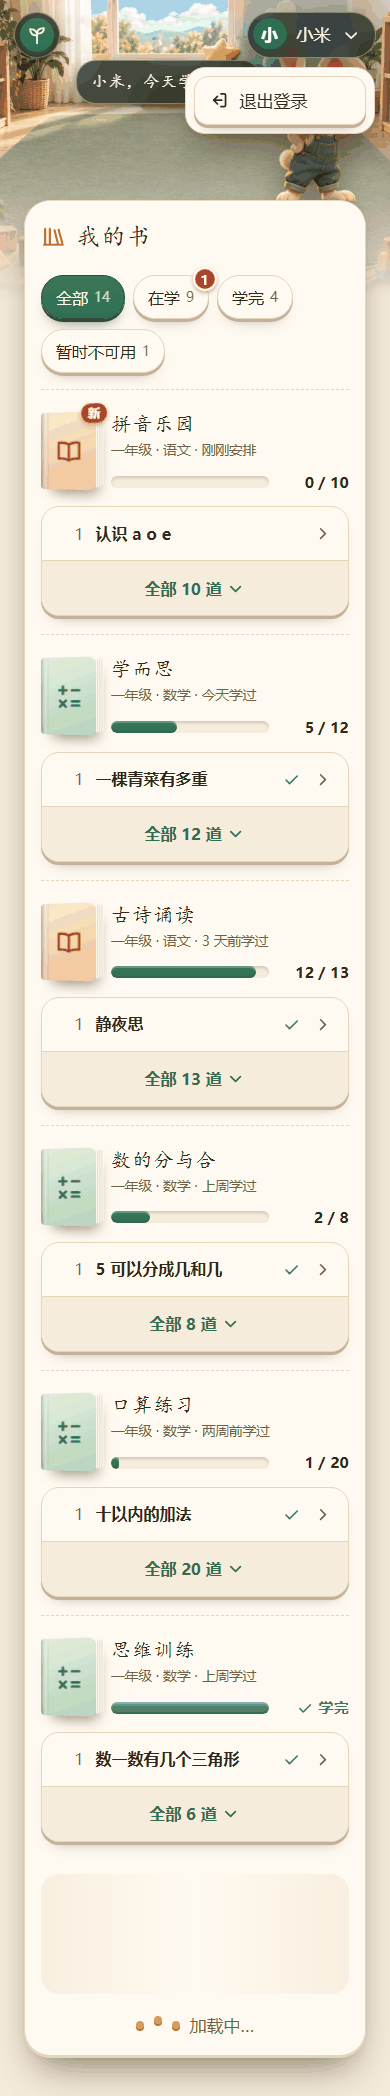
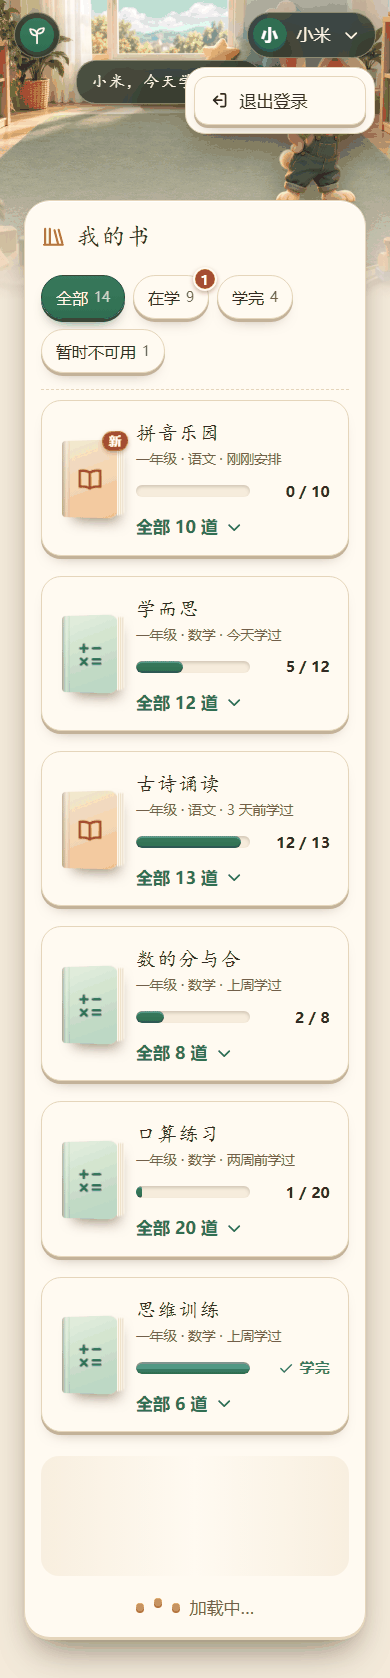
docs(design): make each book one expandable card and clear new books on opening a problem (#221)
Follows the maintainer's fourth round: the title, progress and the expand
control form one card with no problem shown before expanding, a book stops
being new only when one of its problems is opened, and unavailable books
are grey but can still be expanded.

diff --git a/docs/design/book-access.md b/docs/design/book-access.md
@@ -1,6 +1,6 @@
 # 孩子只学安排的书，访客看不到题目
 
-- 状态：需求已由维护者 2026-11-12 确认，写进 [REQ-001、REQ-009、REQ-010](../product/requirements.md) 和 [vision.md](../product/vision.md)。登录页、题目页和预览模式的样稿维护者已看过；孩子首页按第三轮意见重画，等维护者确认。
+- 状态：需求已由维护者 2026-11-12 确认，写进 [REQ-001、REQ-009、REQ-010](../product/requirements.md) 和 [vision.md](../product/vision.md)。登录页、题目页和预览模式的样稿维护者已看过；孩子首页按第四轮意见重画，等维护者确认。
 - 需求：REQ-001、REQ-009、REQ-010（2026-11-12 修改），REQ-002、REQ-011。样稿见 [#221 记录](../evidence/221/README.md)，变更原因见 [变更记录](../changes/2026-11-12-book-access.md)。
 - 涉及：`libs/contracts`（打开一道题的回答、拒绝的回答、预览作答、孩子的书）、`apps/api`（题目和题目下面全部接口的访问检查、预览作答、孩子的书的筛选、排序和新书标记；去掉公开题库）、`apps/web`（登录首页、孩子首页和顶栏、题目页、预览模式、凸起的公共部件、家长书架的空状态）、`e2e`、`visual`。书、书的状态和安排沿用 [家长书架与按书安排练习](bookshelf.md)。
 
@@ -11,7 +11,7 @@
 之后：
 
 - **访客**打开首页看到登录页：孩子登录和家长登录两个页签。打开题目链接只看到「登录后才能打开这道题」，看不到题目的任何内容。
-- **孩子**登录后首页就是自己的空间「我的书」：新安排的书在最上面，「在学」上的红点告诉孩子有几本新书；每本书一条进度条和一个能展开的题目列表。只能打开安排给自己的书里的题，没安排的由服务端拒绝。顶栏只有品牌和自己的头像，头像菜单里退出登录。
+- **孩子**登录后首页就是自己的空间「我的书」：新安排的书在最上面，「在学」上的红点告诉孩子有几本新书；每本书是一块能展开的凸起卡片，书名、进度条和「全部 n 道」在一起，展开才看到书里的题。只能打开安排给自己的书里的题，没安排的由服务端拒绝。顶栏只有品牌和自己的头像，头像菜单里退出登录。
 - 一道题有两种模式：**做题模式**给孩子，作答、进度和草稿照常记录；**预览模式**给家长，课照常走、答案照常判，什么都不记录。
 - 家长取消安排后，这本书从孩子的首页消失；进度不清零，重新安排后接着原来的进度（#179 的规则不变）。
 
@@ -41,7 +41,7 @@
   | 主按钮       | 每页最要紧的一步：登录、「去登录」、「回到我的书」 | 高 48px，主色                 |
   | 次按钮       | 「加载更多」、「再试一次」                         | 高 48px，纸色                 |
   | 筹码         | 筛选、登录页签的滑块                               | 高 44px，选中主色、没选中纸色 |
-  | 列表块       | 书的题目列表、头像菜单里的「退出登录」             | 每行高 48–54px，纸色          |
+  | 卡片和列表块 | 孩子首页的书和书里的题、头像菜单里的「退出登录」   | 每行高 48–54px，纸色          |
 
   课堂里的按钮可以更大，课堂以外的按钮彼此一样；这些做成 `shared/ui` 的公共部件和令牌，[网站视觉语言](visual-language.md) 随之补上这一节。
 
@@ -74,7 +74,7 @@
 
 ### 首页：登录的孩子
 
-**顶栏**：叠在画的上沿，左边是品牌（烟色玻璃胶囊里的图标和「小小探索家」，手机上只有图标），点了回到首页顶部；右边是孩子的头像和昵称（烟色玻璃胶囊，带向下的箭头），点了弹出一张凸起的菜单，只有一项「退出登录」（列表块）。退出后回到首页的登录页，换一个孩子就在那里登录。不放「孩子注册」（已经注册并登录了）、「家长空间」（家长从登录页的家长页签或 `/family` 进去，孩子的屏幕上不需要）和「孩子空间」（首页就是）。
+**顶栏**：叠在画的上沿，左边是品牌（烟色玻璃胶囊里的图标和「小小探索家」，手机上只有图标），点了回到首页顶部；右边是孩子的头像和昵称（烟色玻璃胶囊，带向下的箭头），点了弹出一张凸起的菜单，只有一项「退出登录」。退出后回到首页的登录页，换一个孩子就在那里登录。不放「孩子注册」（已经注册并登录了）、「家长空间」（家长从登录页的家长页签或 `/family` 进去，孩子的屏幕上不需要）和「孩子空间」（首页就是）。
 
 **画**：白天是玩具教室（`toy-classroom-day`），晚上是雨夜的图书角（`library-corner-rainy`），小兔站在右边，旁边一个烟色玻璃气泡「小米，今天学哪本？」（孩子的昵称）。
 
@@ -91,7 +91,7 @@
 | 学完         | 可用、学完的书                 | 本数，小字                                           | 一直               |
 | 暂时不可用   | 安排了但暂时不可用的书         | 本数，小字                                           | 有暂时不可用的书时 |
 
-- 默认「全部」：新书就排在最上面，孩子一打开就看到；「在学」上的红点在孩子换到别的筛选、或者新书被翻到下面时仍然提醒。
+- 默认「全部」（维护者确认）：新书就排在最上面，孩子一打开就看到；「在学」上的红点在孩子换到别的筛选、或者新书被翻到下面时仍然提醒。
 - 红点读屏是「n 本新书」；没有新书时不出现。
 - 选中的筹码写进地址（`/?books=learning|finished|unavailable`），刷新、从题目页返回后还在。
 - 选中的筛选里没有书时（例如还没有学完的书）是一行「这里还没有书」和次按钮「看全部的书」。
@@ -101,37 +101,49 @@
 
 | 组           | 哪些书                           | 组里的顺序                                                         |
 | ------------ | -------------------------------- | ------------------------------------------------------------------ |
-| 1 新安排     | 可用、孩子还没打开过的书         | 新安排的在前                                                       |
+| 1 新安排     | 可用、孩子还没打开过其中的题的书 | 新安排的在前                                                       |
 | 2 在学       | 可用、没学完、打开过的书         | 按最近学习从近到远；打开过但没作答过的排在这一组最后，新安排的在前 |
 | 3 学完       | 可用、学完的书（n = m 且 m > 0） | 按最近学习从近到远                                                 |
 | 4 暂时不可用 | 安排了但暂时不可用的书           | 按最近学习从近到远，没作答过的在最后、新安排的在前                 |
 
 - **最近学习**是孩子在这本书里任何一道题最近一次提交作答的时间（`progress` 表的 `updated_at`，#217 的变化题作答也算）。读取时算，不另存。
-- 新安排的书已经学完（以前做完、取消后又安排）时也排在第 1 组，直到孩子打开它。
+- 新安排的书已经学完（以前做完、取消后又安排）时也排在第 1 组，直到孩子打开其中一道题。
 - 「全部」按上表四组排；其他筛选是上表里的一部分，顺序不变。
 
 #### 新书
 
 - 家长给孩子安排一本书时，这本书对这个孩子是**新书**：封面右上角一枚红色「新」字，计入「在学」上的红点。
-- 孩子**展开这本书的题目列表**（点「全部 n 道」），或者以做题模式**打开这本书里任何一道题**以后，这本书不再是新书：服务器记下打开的时间（见[数据](#数据)），「新」字和红点里的这一本消失，书移到第 2 组。
-- 只是在首页看到这本书、切换筛选，都不算打开：孩子要点进这本书才算。
+- 孩子以做题模式**打开这本书里任何一道题**以后，这本书不再是新书（维护者确认）：服务器在打开这道题时记下（见[数据](#数据)），「新」字和红点里的这一本消失，书移到第 2 组。
+- 只是在首页看到这本书、切换筛选或者展开它的题目列表，都不算：孩子总要先展开、再打开一道题，打开题才算真的开始做这本书。
 - 家长取消后再安排，这本书又是新书。
 - 暂时不可用的书不算新书，不进红点：孩子打不开它。
 
 #### 一本书
 
-- **上面**：左边立体的封面（没有封面时是默认封面）；右边书名，下面一行小字「年级 · 科目 · 什么时候」（「今天学过」「3 天前学过」，新书写「刚刚安排」「昨天安排」，打开过没作答的写「还没做」）；再下面一条**进度条**：凹下的槽里一段凸起的主色，右边写「5 / 12」；学完时整条变成绿色，右边是带勾的「学完」；暂时不可用时整条变灰，右边写「暂时不可用」。
-- **下面是这本书的题目列表**，一个凸起的列表块，所有屏幕上都是一列，题名完整显示、太长就折行：
-  - **收起时**（默认）只有两行：第一行是书里的第 1 道题（序号、题名，做完的后面一个勾，最右一个向右的箭头），点了以做题模式打开这道题；第二行是「全部 n 道」和向下的箭头，点了展开。
-  - **展开时**在页面上原地变长，一行一道，列出书里的全部题，每行高 54px，整行都能点；最后一行是「收起」和向上的箭头。不用下拉框或弹出层：手指在页面上上下滑就能看完，点哪一行就进哪一道题。
-  - 一次只展开一本书：展开另一本时，前一本收起，页面保持刚点的那本书的书名在屏幕里。
-  - 展开的是哪本书写进地址（`&open=<书 id>`），从题目页返回时还展开着、停在原来的位置。
-  - 书里只有一道题时没有「全部 n 道」这一行。
-  - 暂时不可用的书，列表块变平，只列第 1 道题，题名不能点、做完的照样打勾，没有「全部 n 道」。
+每本书是一块凸起的卡片，**收起时整块就是一个按钮**（`aria-expanded`）：
+
+- 左边立体的封面（没有封面时是默认封面）。
+- 右边书名，下面一行小字「年级 · 科目 · 什么时候」（「今天学过」「3 天前学过」，新书写「刚刚安排」「昨天安排」，打开过没作答的写「还没做」）。
+- 再下面一条**进度条**：凹下的槽里一段凸起的主色，右边写「5 / 12」；学完时整条变成绿色，右边是带勾的「学完」。
+- 最下面「全部 n 道」和向下的箭头。点卡片上任何地方都展开，书里的题不会在收起时露出来，哪一道都不比别的更显眼。
+
+**展开时**卡片在页面上原地变长：
+
+- 头部的「全部 n 道」换成「收起」和向上的箭头，头部仍然是收起的按钮。
+- 下面一行一道，列出书里的全部题，所有屏幕上都是一列，题名完整显示、太长就折行；每行是序号、题名，做完的后面一个勾，最右一个向右的箭头，高 54px，整行都能点，点了以做题模式打开这道题。
+- 最后一行再放一个「收起」，长的书翻到底也能收起。
+- 不用下拉框或弹出层：手指在页面上上下滑就能看完，点哪一行就进哪一道题。
+- 一次只展开一本书：展开另一本时，前一本收起，页面保持刚点的那本书的书名在屏幕里。
+- 展开的是哪本书写进地址（`&open=<书 id>`），从题目页返回时还展开着、停在原来的位置。
+
+**暂时不可用的书**：
+
+- 卡片变平（没有凸起的边），封面变灰；书名、小字和右边的「暂时不可用」都是同一种灰色、正常字重；进度条变灰，不是主色也不是绿色。
+- 照样能展开，看到书里有哪些题、做完的打勾。展开后列表最上面一行写「这本书暂时不可用，里面的题先打不开。」，题目行变平、灰色、没有向右的箭头，点了没有反应：理由已经写在列表最上面，不用再弹提示。
 
 #### 加载更多
 
-每批 6 本。
+每批 6 本（维护者确认）。
 
 | 设备                                        | 怎么加载                                                                                                |
 | ------------------------------------------- | ------------------------------------------------------------------------------------------------------- |
@@ -140,7 +152,7 @@
 
 - 都加载完时底部一行「都在这里了」。
 - 加载失败时一行「这一批没加载出来」和次按钮「再试一次」，手机上也一样。
-- 键盘和读屏在手机上也能用「再试一次」；电脑上的「加载更多」能用 Tab 走到。
+- 电脑上的「加载更多」和手机上的「再试一次」都能用 Tab 走到。
 
 #### 没有书
 
@@ -208,7 +220,7 @@
 - 没安排又暂时不可用的书算 `unassigned`：没人安排过的不可用书，孩子本来就看不到。
 - 题目的版本仍按题目清单：清单里有的版本都能打开，书里列的是最新版本。
 - 判断是不依赖数据库的纯函数（`apps/api/src/learning/domain/problem-access.ts`），输入是谁在看、题目清单里的题和书、孩子安排了的书 id；安排由现有的 `readBookAssignments` 读。
-- 孩子以做题模式打开一道题（`practice`）时，同一个事务里把这本书标成打开过（见[新书](#新书)）。
+- 孩子以做题模式打开一道题（`practice`）时，同一个事务里把这本书标成打开过（见[新书](#新书)）；这是新书唯一被消掉的地方，不另设接口。
 
 ### 哪些接口检查什么
 
@@ -219,12 +231,10 @@
 | `POST .../question`、`.../feedback`、`.../transcription`（向小兔提问、讲解、语音转写） | 孩子       | 401      | 403       | 404       | 403          | 403           | 照现在 |
 | `POST .../preview`（预览模式的作答和提示）                                             | 家长       | 401      | 403       | 404       | —            | 403           | 200    |
 | `GET /api/v1/children/assignments`（孩子的书）                                         | 孩子       | 401      | —         | —         | 不列         | 列出，带状态  | 列出   |
-| `PUT /api/v1/children/assignments/:bookId/opened`（展开题目列表时标成打开过）          | 孩子       | 401      | 403       | 404       | 403          | 403           | 204    |
 
 - 「谁能用」以外的会话一律 401：家长调孩子的接口、孩子调预览接口都是 401，页面不会这样调。
-- 检查顺序：先会话和 CSRF（照现在），再判断这道题（或这本书）能不能打开，最后才是各接口自己的逻辑；不能打开时不读写草稿、作答和用量，也不调用 AI。
+- 检查顺序：先会话和 CSRF（照现在），再判断这道题能不能打开，最后才是各接口自己的逻辑；不能打开时不读写草稿、作答和用量，也不调用 AI。
 - 题目下面所有孩子的接口都从同一个「孩子 + 题目」入口进来（`apps/api/src/child-problem-transaction.ts`），检查只写在这一处；#217 合并后它的变化题接口也改从这个入口进来。
-- 「标成打开过」请求体是空的 JSON 对象 `{}`，重复调用什么也不变；书不在书单里是 404。
 - 打开一道题和预览作答的回答都带 `Cache-Control: no-store` 和 `Vary: Cookie`。
 - `GET /api/v1/problems`（公开题库）删除：孩子首页用孩子的书，家长书架有自己的接口，没有别的调用方。
 - 家长的书架、安排、导出和删除接口不变（#179 里已经按家长会话和家庭检查，别的家庭的孩子回答 404）。
@@ -238,7 +248,7 @@
 | 403  | `{ message: '请刷新页面后重试。' }`（照现在）                     | 写请求的 CSRF 不对     |
 | 403  | `{ message: '这本书还没有安排给你。', reason: 'unassigned' }`     | 书没安排给这个孩子     |
 | 403  | `{ message: '这本书暂时不可用。', reason: 'unavailable' }`        | 书暂时不可用           |
-| 404  | `{ message: '这道题或这个版本暂时不可用。' }`（照现在）           | 题目、版本或书不存在   |
+| 404  | `{ message: '这道题或这个版本暂时不可用。' }`（照现在）           | 题目或版本不存在       |
 
 - 契约在 `libs/contracts`：`ProblemOpening`（题目摘要加 `mode`）、`ProblemAccessDenied`（`message` 和 `reason`）。页面按 `mode` 和 `reason` 选画法，不比较文字。`RequestError` 多一个可选的 `reason`，错误处理把它放进回答体。
 - 拒绝时不说明书名，也不说明这本书安排给了谁。
@@ -280,7 +290,7 @@
 ```
 
 - `studiedAt` 是最近学习的时间，没作答过是 `null`；`fresh` 表示还是新书；排列按[书的顺序](#书的顺序)。
-- `items` 是书里现在的全部题，页面收起时只画第 1 道；一本书的题最多几十道，一次给全，展开时不用再请求。
+- `items` 是书里现在的全部题；一本书的题最多几十道，一次给全，展开时不用再请求。
 - 一次查出这个孩子的安排、每本书里每道题的最近作答时间和做完的题，不按书逐本查；筛选、计数和分页在内存里做（一个孩子的书只有几十本）。
 - `books` 不合乎写法是 400。
 
@@ -290,10 +300,10 @@
 
 ```text
 book_assignments
-  opened_at  timestamptz  可以为空；孩子第一次展开这本书的题目列表或以做题模式打开其中一道题的时间，没打开过是空
+  opened_at  timestamptz  可以为空；孩子第一次以做题模式打开这本书里任何一道题的时间，没打开过是空
 ```
 
-- 打开时 `UPDATE ... SET opened_at = now() WHERE child_id = $1 AND book_id = $2 AND opened_at IS NULL`，只写一次，重复打开不变。
+- 打开一道题时 `UPDATE ... SET opened_at = now() WHERE child_id = $1 AND book_id = $2 AND opened_at IS NULL`，只写一次，重复打开不变。
 - 取消安排删除这一行，再安排插入新的一行，`opened_at` 是空，所以又是新书。
 - 不写进家庭导出：它只决定首页上的新书标记，不是学习记录。删除家庭时跟着这一行一起删除；备份的逐表行数不变。
 - 迁移的编号排在 #217、#164 的迁移之后，合并时按顺序重排。
@@ -306,25 +316,24 @@ book_assignments
 
 - `apps/api`：先做一个不改行为的重构，让题目下面的孩子接口（作答、草稿和三个 AI 接口）都从同一个「孩子 + 题目」入口进来，现在它只确认孩子会话；之后访问检查只加在这个入口里。打开一道题由外层的组装文件按会话选孩子或家长的判断，再交给 `catalog` 的路由；`catalog` 不依赖 `learning`。预览作答放在 `learning` 里，和孩子作答共用判定。孩子的书的筛选、计数、新书和排列是 `learning/domain/bookshelf.ts` 里的纯函数。
 - `libs/contracts`：`ProblemOpening`、`ProblemAccessDenied`、预览作答的请求和回答；孩子的书的 `counts`、`studiedAt`、`fresh` 和 `books` 参数；去掉 `CatalogResponse`。
-- `apps/web`：凸起的按钮、筹码、列表块、进度条和立体封面做成 `shared/ui` 的公共部件；首页按会话选登录页或「我的书」，登录页复用 `AccountLayout`、孩子和家长的登录组件；孩子的顶栏替换现在的网站导航，`/child` 转到首页；题目列表的展开用一个按钮（`aria-expanded`）控制下面的列表；加载方式按 `(pointer: coarse)` 选自动加载或按钮；`ProblemPage` 先看会话，再按 `mode` 和 `reason` 选画法；课堂页面收到的不再是可有可无的 `csrf`，而是「做题模式（孩子的 CSRF）」或「预览模式（家长的 CSRF）」两种之一：预览模式用同一个画面和同一套反馈，作答和提示走预览接口，不放话筒、提问和草稿，加上「预览」标记。
+- `apps/web`：凸起的按钮、筹码、卡片、列表块、进度条和立体封面做成 `shared/ui` 的公共部件；首页按会话选登录页或「我的书」，登录页复用 `AccountLayout`、孩子和家长的登录组件；孩子的顶栏替换现在的网站导航，`/child` 转到首页；书的卡片头部是展开按钮（`aria-expanded`、`aria-controls` 指向题目列表）；加载方式按 `(pointer: coarse)` 选自动加载或按钮；`ProblemPage` 先看会话，再按 `mode` 和 `reason` 选画法；课堂页面收到的不再是可有可无的 `csrf`，而是「做题模式（孩子的 CSRF）」或「预览模式（家长的 CSRF）」两种之一：预览模式用同一个画面和同一套反馈，作答和提示走预览接口，不放话筒、提问和草稿，加上「预览」标记。
 - 题目页的 `LessonRoute` 和 #210 的课堂记录都改这一带，合并时按顺序处理。
 
 ## 测试
 
 - 判断能不能打开：上面顺序表的每一格一条单元测试，加上「没安排又暂时不可用」算 `unassigned`、孩子和家长都登录着时按孩子。
-- 孩子的书：四组的顺序和组里的顺序、学完的书重新安排后排在新书组、每个筛选的成员和计数、新书的本数；展开题目列表或打开一道题后不再是新书、取消再安排又是新书、暂时不可用的书不算新书。各一条单元测试。
-- 接口，不连数据库的路由测试：没有会话时 401；回答带 `no-store` 和 `Vary: Cookie`；403 的回答体合乎 `ProblemAccessDenied`；预览接口、孩子的书和「标成打开过」的参数校验、来源检查。
+- 孩子的书：四组的顺序和组里的顺序、学完的书重新安排后排在新书组、每个筛选的成员和计数、新书的本数；打开一道题后不再是新书、只展开不算、取消再安排又是新书、暂时不可用的书不算新书。各一条单元测试。
+- 接口，不连数据库的路由测试：没有会话时 401；回答带 `no-store` 和 `Vary: Cookie`；403 的回答体合乎 `ProblemAccessDenied`；预览接口和孩子的书的参数校验、来源检查。
 - 接口，真实数据库（CI 的 `test:db`）：
   - 打开一道题：安排了 200 `practice`，并记下 `opened_at`，第二次打开不变；同一家庭另一个孩子安排的书 403 `unassigned`；别的家庭的孩子安排的书 403 `unassigned`；暂时不可用 403 `unavailable`（测试注册表）；不存在 404；家长 200 `preview`、不写 `opened_at`、暂时不可用 403；没验证邮箱的家长 401。
-  - 「标成打开过」：安排了 204 并记下时间；没安排、暂时不可用 403；书单里没有 404；家长会话 401。
   - 作答、草稿、变化题和三个 AI 接口：`unassigned`、`unavailable` 时 403，不写作答、草稿和用量，不调用 AI（测试替身记录调用次数）；家长会话 401。
   - 预览作答：判对、判错、提示；调用前后所有学习表的行数不变；孩子会话 401。
   - 取消安排后 403，重新安排后 200，进度不变，又是新书。
   - 孩子的书：`counts`、`studiedAt`、`fresh`、每个筛选、顺序和分页。
   - 迁移：从上一个迁移带数据升级后，已有的安排 `opened_at` 为空。
-- 网页：凸起部件的每种状态（平常、按下、选中、不能按）；登录页两个页签（孩子、家长、家长已登录、「忘了 PIN」展开）；孩子顶栏的头像菜单；孩子首页（每个筛选、红点、「新」字、进度条的三种样子、题目列表收起和展开、一次只展开一本、暂时不可用、没有安排、筛选里没有书、加载中、加载失败、都加载完）的 story 和测试；题目页每种情况的测试，包括课堂中途收到 403；`next` 的校验（站内题目地址、别的地址、坏的写法、`/child?next=` 转过来）；预览模式不放话筒、提问和草稿，作答走预览接口，反馈和做题模式一样，「预览」标记一直在。
-- e2e（服务器的回答由测试代答，不需要数据库）：访客打开首页只看到登录页，不请求题目接口；访客打开题目链接看到登录提示，不下载这道题的课堂代码和绘景；从题目页登录后回到这道题；孩子展开新书的题目列表后红点消失；手机上滑到底自动加载下一批，电脑上点「加载更多」；家长预览从片名卡走到作答，不请求草稿和作答接口。现在按访客身份打开题目的用例改成用登录并安排了这本书的孩子（`e2e/assigned-child.ts` 代答孩子会话、孩子的书和打开一道题），#126 等后来的题目用例也用它。
-- 视觉基准：登录页两个页签（白天、晚上、手机）；孩子首页（白天、晚上、手机、展开一本书、电脑加载中、手机加载中、暂时不可用、头像菜单、没有安排）；题目页的三种提示；预览模式的片名卡和作答。现在的「探索」和「孩子空间」两组基准换成这些。
+- 网页：凸起部件的每种状态（平常、按下、选中、不能按）；登录页两个页签（孩子、家长、家长已登录、「忘了 PIN」展开）；孩子顶栏的头像菜单；孩子首页（每个筛选、红点、「新」字、进度条的三种样子、书的卡片收起和展开、一次只展开一本、暂时不可用的书收起和展开、没有安排、筛选里没有书、加载中、加载失败、都加载完）的 story 和测试；题目页每种情况的测试，包括课堂中途收到 403；`next` 的校验（站内题目地址、别的地址、坏的写法、`/child?next=` 转过来）；预览模式不放话筒、提问和草稿，作答走预览接口，反馈和做题模式一样，「预览」标记一直在。
+- e2e（服务器的回答由测试代答，不需要数据库）：访客打开首页只看到登录页，不请求题目接口；访客打开题目链接看到登录提示，不下载这道题的课堂代码和绘景；从题目页登录后回到这道题；孩子展开新书、打开一道题，返回后红点消失，只展开不消；手机上滑到底自动加载下一批，电脑上点「加载更多」；家长预览从片名卡走到作答，不请求草稿和作答接口。现在按访客身份打开题目的用例改成用登录并安排了这本书的孩子（`e2e/assigned-child.ts` 代答孩子会话、孩子的书和打开一道题），#126 等后来的题目用例也用它。
+- 视觉基准：登录页两个页签（白天、晚上、手机）；孩子首页（白天、晚上、手机、展开一本书、电脑加载中、手机加载中、暂时不可用的书收起和展开、头像菜单、没有安排）；题目页的三种提示；预览模式的片名卡和作答。现在的「探索」和「孩子空间」两组基准换成这些。
 
 ## 后续工作
 
@@ -340,9 +349,11 @@ book_assignments
 - **孩子首页保留年级、学科、分类三个选择**：选择框表达不了新书在前、最近学过的在前；按书排成一列和 #179 的「我的练习」一致。
 - **孩子的顶栏保留孩子空间、孩子注册和家长空间**：首页就是孩子的空间，孩子已经注册，家长空间不是孩子要去的地方；只留头像菜单里的退出。
 - **单独一个「新安排」筛选**：维护者不要；新书就是在学的书，排在最上面，红点放在「在学」上。
-- **在首页看到新书就算不新了**：孩子扫一眼就消掉了提醒；要点进这本书才算。
-- **把书里的题全部摆在页面上**：几本书就把页面拉得很长，题名还被挤成几个字；收起时只露第 1 道，要看再展开。
+- **展开题目列表就算不新了**：孩子展开看一眼就消掉了提醒；要打开一道题才算开始做这本书（维护者确认），也就不需要单独的「标成打开过」接口。
+- **收起时露出第 1 道题**：第 1 道题因此比别的题更显眼；收起时只有书名、进度和「全部 n 道」。
+- **把书里的题全部摆在页面上**：几本书就把页面拉得很长，题名还被挤成几个字。
 - **用下拉框或弹出层列题目**：手机上下拉框的选项小、不好滑，弹出层盖住书架；在页面上原地展开，一行一道，手指滑和点都顺手。
+- **暂时不可用的书点题时弹提示**：理由已经写在展开的列表最上面，再弹一次是重复的打扰。
 - **手机上也用「加载更多」按钮**：手机上滑到底自然就该接着出现；电脑上滚轮停下来常常是还在看，按钮让孩子自己决定。
 - **预览不判答案、只看短片**：家长看不到孩子在作答那一步会遇到什么；判定在服务器上、不记录，代价是一个只读的接口。
 - **预览里也能语音作答和提问**：要调用付费的 AI，家庭授权管的是孩子的输入；预览用点选就够看清这一步。

diff --git a/docs/changes/2026-11-12-book-access.md b/docs/changes/2026-11-12-book-access.md
@@ -1,9 +1,9 @@
 # 孩子只学安排的书，访客看不到题目
 
 - 日期：2026-11-12
-- 状态：需求已由维护者确认并写进需求文档；登录页、题目页和预览模式的样稿维护者已看过，孩子首页按第三轮意见重画，等维护者确认。
+- 状态：需求已由维护者确认并写进需求文档；登录页、题目页和预览模式的样稿维护者已看过，孩子首页按第四轮意见重画，等维护者确认。
 - 级别：L2 需求变更（REQ-001 浏览题库的对象，REQ-009 去掉自由复习、加上做题模式和预览模式、孩子首页的顺序和新书，REQ-010 返回的去处）；设计冲击 D1（题目下面的孩子接口先收拢到同一个「孩子 + 题目」入口，再加访问检查；课堂页面收到的会话从可有可无的 CSRF 改成做题模式或预览模式之一）
-- 来源：[#221](https://github.com/juanchaopan/education/issues/221)。维护者 2026-11-12：「什么叫自由复习？应该没有这个东西的，只有家长给你安排过这本书，你才能够去学」；访客「什么都看不到」。看过三轮样稿后的决定见下面。
+- 来源：[#221](https://github.com/juanchaopan/education/issues/221)。维护者 2026-11-12：「什么叫自由复习？应该没有这个东西的，只有家长给你安排过这本书，你才能够去学」；访客「什么都看不到」。看过四轮样稿后的决定见下面。
 
 ## 变了什么
 
@@ -12,7 +12,7 @@
 之后：
 
 - 首页对访客是登录页：孩子登录（默认）和家长登录两个页签。
-- 孩子登录后首页就是自己的空间「我的书」：顶栏只有品牌和头像菜单（退出登录）；新书排在最上面，「在学」筛选上的红点是新书的本数，孩子展开新书的题目列表或打开其中一道题后不再算新书；每本书一条进度条和一个能原地展开的题目列表，收起时只露第 1 道题；手机上滑到底自动加载，电脑上点「加载更多」。`/child` 转到首页。
+- 孩子登录后首页就是自己的空间「我的书」：顶栏只有品牌和头像菜单（退出登录）；新书排在最上面，「在学」筛选上的红点是新书的本数，孩子打开新书里的一道题后不再算新书；每本书是一块能展开的凸起卡片，封面、书名、进度条和「全部 n 道」在一起，展开后一行一道列出书里的题；暂时不可用的书置灰，能展开看题但打不开；手机上滑到底自动加载，电脑上点「加载更多」。`/child` 转到首页。
 - 一道题有做题模式和预览模式。孩子只能以做题模式打开安排给自己的书里的题；打开一道题、作答、草稿、变化题和 AI 接口都由服务端检查安排，没安排回答 403 `unassigned`，暂时不可用回答 403 `unavailable`。家长以预览模式打开：课照常走、答案照常判、反馈和做题模式一样，什么都不记录，不调用 AI，画面上标着「预览」。公开题库接口删除。
 - 孩子从题目链接登录后回到这道题。
 - 本次画的页面都有和课堂画面一样的立体感，课堂以外的按钮和部件是同一种凸起。
@@ -21,40 +21,40 @@
 
 | 类别 | 内容                                                                                                                                                                                                                                                                                                                                                    |
 | ---- | ------------------------------------------------------------------------------------------------------------------------------------------------------------------------------------------------------------------------------------------------------------------------------------------------------------------------------------------------------- |
-| 需求 | REQ-001、REQ-009、REQ-010 和 vision.md 已按维护者确认的文字修改，写明 2026-11-12；REQ-009 的首页顺序和新书按第三轮意见写                                                                                                                                                                                                                                |
+| 需求 | REQ-001、REQ-009、REQ-010 和 vision.md 已按维护者确认的文字修改，写明 2026-11-12；REQ-009 的首页顺序和新书按第四轮意见写                                                                                                                                                                                                                                |
 | 架构 | 分层不变，不需要新的 ADR；课堂静态文件不受登录保护，记在设计的[不受保护的部分](../design/book-access.md#不受保护的部分)，挡住它们是后续 issue                                                                                                                                                                                                           |
 | 设计 | 新增 [孩子只学安排的书，访客看不到题目](../design/book-access.md)；[课堂公共部件与绘景库](../design/lesson-kit.md) 去掉「未登录」观看和它的提示条、加上预览模式；[网站视觉语言](../design/visual-language.md) 加上立体感和统一的按钮、改掉首页和「未登录观看」；[家长书架](../design/bookshelf.md) 里孩子练习的排列和由 #221 实现的几处改成链接到新设计 |
-| 代码 | `libs/contracts`；`apps/api` 的打开一道题、作答、草稿、变化题、三个 AI 接口、预览作答、孩子的书和「标成打开过」，去掉公开题库；`apps/web` 的凸起公共部件、首页、孩子顶栏、题目页、课堂页面的会话、家长书架的空状态，`/child` 转到首页；`e2e`、`visual`                                                                                                  |
+| 代码 | `libs/contracts`；`apps/api` 的打开一道题（记下新书被打开）、作答、草稿、变化题、三个 AI 接口、预览作答、孩子的书，去掉公开题库；`apps/web` 的凸起公共部件、首页、孩子顶栏、题目页、课堂页面的会话、家长书架的空状态，`/child` 转到首页；`e2e`、`visual`                                                                                                |
 | 数据 | `book_assignments` 加一列 `opened_at`（可以为空），迁移只加不删；读现有的 `progress` 算最近学习                                                                                                                                                                                                                                                         |
 
 ## 决定
 
 - 首页是登录页，照家长账号页面的版式，孩子登录和家长登录两个页签，默认孩子登录；孩子登录仍用家庭码、昵称和六位 PIN，KEY 只用于注册。孩子注册、家长注册、找回密码的页面照现在的样子用。
-- 孩子的顶栏从孩子真正需要的出发，只留品牌和头像菜单；首页就是孩子的空间。
-- 孩子首页：新书（还没打开过）排在最前面、新安排的在前；其余没学完的按最近学过（最近一次提交作答）排；然后是学完的；暂时不可用的置灰放在最后。筛选是全部、在学、学完和暂时不可用（只在有这样的书时出现），没有单独的「新安排」筛选，新书的本数用红色实心圆标在「在学」上。
-- 孩子点进新书以后才不算新书。
+- 孩子的顶栏只留品牌和头像菜单；首页就是孩子的空间。
+- 孩子首页：新书（还没打开过其中的题）排在最前面、新安排的在前；其余没学完的按最近学过（最近一次提交作答）排；然后是学完的；暂时不可用的置灰放在最后。筛选是全部（默认）、在学、学完和暂时不可用（只在有这样的书时出现），没有单独的「新安排」筛选，新书的本数用红色实心圆标在「在学」上。
+- 孩子打开新书里的任意一道题后才不算新书，只展开题目列表不算；新书在服务器打开题目时消掉，不另设接口。
 - 进度保留「5 / 12」的数字，用进度条表示。
-- 书里的题不全部摆在页面上：每本书一个凸起的、能展开的列表，默认只露第 1 道题，所有屏幕一列、题名完整；为手指设计，不用下拉框。
-- 「我的书」手机上滑到底自动加载，电脑上用凸起的「加载更多」按钮，有「加载中…」。
+- 每本书一块凸起的卡片，书名和「全部 n 道」是同一个展开按钮，收起时不露任何一道题；展开后所有屏幕一列、题名完整；为手指设计，不用下拉框。
+- 暂时不可用的书：「暂时不可用」和书名同一种灰色、正常字重，进度条变灰；能展开看题，题目打不开。
+- 「我的书」每批 6 本，手机上滑到底自动加载，电脑上用凸起的「加载更多」按钮，有「加载中…」。
 - 全站按钮和部件同一种有质感的立体样式，课堂里的可以更大，课堂以外的彼此一样；家长空间的改版另开 issue。
 - 家长可以预览家长书架上所有可用的书：走完整节课、点选作答、按同样的规则判对错，什么都不保存，不用话筒、不向小兔提问、没有 AI 花费。标记只写「预览」，作答的反馈和做题模式一样。需求里写明做题模式和预览模式。
 - 家长页面里的预览入口以后做（会和 #164 冲突），这次只能从题目链接进预览；预览是单独的第 5 个 PR。
 - 题目链接登录后回到这道题，`next` 只接受站内题目地址。
 - 题目页的提示分开：没登录只有登录提示；孩子没安排是「请家长安排这本书」；书撤下是「这本书暂时不可用」；家长是预览模式。
 - 课堂静态文件这次不挡，挡住它们作为后续 issue。
-- 还待维护者确认：孩子首页的样稿、默认筛选、「点进去」包不包括展开题目列表、每批几本。
 
 ## 拆出的工作
 
 都挂在 #221 下，本地叠着做，按顺序开 PR：
 
-| PR  | 内容                                                                                                                                                                                                                                                                                                             |
-| --- | ---------------------------------------------------------------------------------------------------------------------------------------------------------------------------------------------------------------------------------------------------------------------------------------------------------------- |
-| 1   | 文档：本设计、课堂公共部件、视觉语言、家长书架的链接、变更记录、样稿、文档索引（需求和 vision 已在这个分支上）                                                                                                                                                                                                   |
-| 2   | 重构，不改行为：题目下面的孩子接口都从同一个「孩子 + 题目」入口进来；课堂页面收到的会话换成孩子或访客两种之一                                                                                                                                                                                                    |
-| 3   | 孩子首页和登录：凸起的公共部件、登录首页、孩子顶栏和「我的书」（筛选、新书、进度条、能展开的题目列表、加载更多）、`/child` 转到首页、题目页的提示、登录后回到题目、家长书架的空状态；孩子的书的接口加筛选、计数、`studiedAt`、`fresh`、「标成打开过」和 `opened_at` 的迁移；e2e 用登录并安排了书的孩子；视觉基准 |
-| 4   | 接口的访问检查：打开一道题按会话判断并记下打开、孩子接口拒绝没安排和暂时不可用的书、删除公开题库；集成测试                                                                                                                                                                                                       |
-| 5   | 预览模式：打开一道题对家长回答 `preview`、预览作答接口、课堂的预览模式和标记；测试、e2e 和视觉基准                                                                                                                                                                                                               |
+| PR  | 内容                                                                                                                                                                                                                                                                                        |
+| --- | ------------------------------------------------------------------------------------------------------------------------------------------------------------------------------------------------------------------------------------------------------------------------------------------- |
+| 1   | 文档：本设计、课堂公共部件、视觉语言、家长书架的链接、变更记录、样稿、文档索引（需求和 vision 已在这个分支上）                                                                                                                                                                              |
+| 2   | 重构，不改行为：题目下面的孩子接口都从同一个「孩子 + 题目」入口进来；课堂页面收到的会话换成孩子或访客两种之一                                                                                                                                                                               |
+| 3   | 孩子首页和登录：凸起的公共部件、登录首页、孩子顶栏和「我的书」（筛选、新书、进度条、能展开的书、加载更多）、`/child` 转到首页、题目页的提示、登录后回到题目、家长书架的空状态；孩子的书的接口加筛选、计数、`studiedAt`、`fresh` 和 `opened_at` 的迁移；e2e 用登录并安排了书的孩子；视觉基准 |
+| 4   | 接口的访问检查：打开一道题按会话判断并记下新书被打开、孩子接口拒绝没安排和暂时不可用的书、删除公开题库；集成测试                                                                                                                                                                            |
+| 5   | 预览模式：打开一道题对家长回答 `preview`、预览作答接口、课堂的预览模式和标记；测试、e2e 和视觉基准                                                                                                                                                                                          |
 
 后续 issue：课堂代码、旁白录音和绘景放到会话和安排的检查后面；家长空间按同样的立体感和统一的按钮改版；家长总览和学习记录里的题名改成预览链接。
 

diff --git a/docs/evidence/221/README.md b/docs/evidence/221/README.md
@@ -1,6 +1,6 @@
 # #221 孩子只学安排的书，访客看不到题目：样稿
 
-[#221](https://github.com/juanchaopan/education/issues/221) 的样稿。设计见 [孩子只学安排的书，访客看不到题目](../../design/book-access.md)。登录页、题目页和预览模式维护者已看过；孩子首页按第三轮意见重画，待维护者确认。
+[#221](https://github.com/juanchaopan/education/issues/221) 的样稿。设计见 [孩子只学安排的书，访客看不到题目](../../design/book-access.md)。登录页、题目页和预览模式维护者已看过；孩子首页按第四轮意见重画，待维护者确认。
 
 ## 怎么做的
 
@@ -26,18 +26,19 @@
 
 ### 首页：登录的孩子
 
-样稿里小米有 14 本书，第一批 6 本按顺序是：「拼音乐园」刚刚安排、还没打开（新书）；「学而思」5/12、今天学过；「古诗诵读」12/13、3 天前学过；「数的分与合」2/8、上周学过；「口算练习」1/20、两周前学过；「思维训练」学完。另有一本暂时不可用的「儿歌和童谣」。
+样稿里小米有 14 本书，第一批 6 本按顺序是：「拼音乐园」刚刚安排、还没打开过其中的题（新书）；「学而思」5/12、今天学过；「古诗诵读」12/13、3 天前学过；「数的分与合」2/8、上周学过；「口算练习」1/20、两周前学过；「思维训练」学完。另有一本暂时不可用的「儿歌和童谣」。
 
-| 截图                                                                 | 画的是什么                                                                                                                                                                                                                                                                                        |
-| -------------------------------------------------------------------- | ------------------------------------------------------------------------------------------------------------------------------------------------------------------------------------------------------------------------------------------------------------------------------------------------- |
-| [child-home-desktop.png](child-home-desktop.png)                     | 桌面白天：顶栏只有品牌和小米的头像；玩具教室的画里小兔说「小米，今天学哪本？」；筛选「全部 14」选中、「在学 9」右上角红点 1、「学完 4」、「暂时不可用 1」；新书「拼音乐园」在最上面，封面上一枚红色「新」字；每本书一条进度条和收起的题目列表（第 1 道题和「全部 n 道」）；底部凸起的「加载更多」 |
-| [child-home-night-desktop.png](child-home-night-desktop.png)         | 同上，晚上主题，画换成雨夜的图书角                                                                                                                                                                                                                                                                |
-| [child-home-loading-desktop.png](child-home-loading-desktop.png)     | 桌面，点了「加载更多」：按钮沉下去、变平，三颗圆点和「加载中…」                                                                                                                                                                                                                                   |
-| [child-home-phone.png](child-home-phone.png)                         | 手机：筛选折成两行；题目列表一列，题名完整；滑到底时自动加载，底部一张骨架书卡和「加载中…」                                                                                                                                                                                                       |
-| [child-home-open-phone.png](child-home-open-phone.png)               | 手机，展开「学而思」的题目列表：12 道题一行一道，做完的打勾，最后一行「收起」                                                                                                                                                                                                                     |
-| [child-home-unavailable-phone.png](child-home-unavailable-phone.png) | 手机，选中「暂时不可用」：「儿歌和童谣」封面变灰、进度条变灰、列表变平，只列第 1 道题、不能点；底部「都在这里了」                                                                                                                                                                                 |
-| [child-home-menu-phone.png](child-home-menu-phone.png)               | 手机，点了右上角小米的头像：凸起的菜单里只有「退出登录」                                                                                                                                                                                                                                          |
-| [child-home-empty-desktop.png](child-home-empty-desktop.png)         | 桌面，还没有安排的书：没有筛选，空状态「家长还没有给你安排书」                                                                                                                                                                                                                                    |
+| 截图                                                                           | 画的是什么                                                                                                                                                                                                                                         |
+| ------------------------------------------------------------------------------ | -------------------------------------------------------------------------------------------------------------------------------------------------------------------------------------------------------------------------------------------------- |
+| [child-home-desktop.png](child-home-desktop.png)                               | 桌面白天：顶栏只有品牌和小米的头像；筛选「全部 14」选中、「在学 9」右上角红点 1、「学完 4」、「暂时不可用 1」；新书「拼音乐园」在最上面，封面上一枚红色「新」字；每本书是一块凸起的卡片：封面、书名、进度条和「全部 n 道」；底部凸起的「加载更多」 |
+| [child-home-night-desktop.png](child-home-night-desktop.png)                   | 同上，晚上主题，画换成雨夜的图书角                                                                                                                                                                                                                 |
+| [child-home-loading-desktop.png](child-home-loading-desktop.png)               | 桌面，点了「加载更多」：按钮沉下去、变平，三颗圆点和「加载中…」                                                                                                                                                                                    |
+| [child-home-phone.png](child-home-phone.png)                                   | 手机：筛选折成两行；书的卡片一列；滑到底时自动加载，底部一张骨架书卡和「加载中…」                                                                                                                                                                  |
+| [child-home-open-phone.png](child-home-open-phone.png)                         | 手机，展开「学而思」：卡片头部换成「收起」，下面 12 道题一行一道、题名完整，做完的打勾，最后一行「收起」                                                                                                                                           |
+| [child-home-unavailable-phone.png](child-home-unavailable-phone.png)           | 手机，选中「暂时不可用」：「儿歌和童谣」卡片变平、封面变灰，书名、小字和「暂时不可用」同一种灰色、正常字重，进度条变灰                                                                                                                             |
+| [child-home-unavailable-open-phone.png](child-home-unavailable-open-phone.png) | 手机，展开「儿歌和童谣」：最上面一行「这本书暂时不可用，里面的题先打不开。」，题目行变平、灰色、没有箭头，做完的照样打勾                                                                                                                           |
+| [child-home-menu-phone.png](child-home-menu-phone.png)                         | 手机，点了右上角小米的头像：凸起的菜单里只有「退出登录」                                                                                                                                                                                           |
+| [child-home-empty-desktop.png](child-home-empty-desktop.png)                   | 桌面，还没有安排的书：没有筛选，空状态「家长还没有给你安排书」                                                                                                                                                                                     |
 
 ### 题目页
 

diff --git a/docs/product/requirements.md b/docs/product/requirements.md
@@ -84,7 +84,7 @@
 - 优先级：MVP；状态：有效，未实现。
 - 来源：用户第四轮确认；2026-11-12 维护者在 [#221](https://github.com/juanchaopan/education/issues/221) 修改。
 - 用户故事：作为儿童，我希望反复做家长安排给我的书里的题，并恢复中断的作答；作为家长，我希望安排练习、在安排前后预览题目，导出或删除家庭学习数据。
-- 验收标准：Given 家长给孩子安排了书，When 孩子选择书里的任意一道题（包括做过的），Then 以做题模式打开，可以重做，不受强制顺序锁定。Given 孩子的首页，Then 新安排、孩子还没打开过的书排在最前面，新安排的在前；其余没学完的书按最近学过（最近一次提交作答）从近到远，打开过但没作答过的排在这一组最后；然后是学完的书；暂时不可用的书置灰放在最后。Given 有孩子还没打开过的新书，Then 首页标出新书的本数，孩子展开这本书的题目或打开其中一道题后，这本书不再算新书。Given 没有安排给这个孩子的书，When 孩子从页面、链接或直接请求接口打开其中的题，Then 服务端拒绝，页面提示请家长安排这本书；同一家庭其他孩子和其他家庭安排的书同样打不开。Given 安排给孩子的书暂时不可用，Then 孩子看到置灰的书和「暂时不可用」，书里的题打不开。Given 没有登录（访客），When 打开首页或任何题目链接，Then 看不到题目内容，只有登录入口；孩子从题目链接登录后回到这道题。Given 登录的家长打开一道可用的书里的题，Then 以预览模式打开：可以看完整节课并点选作答，按做题模式同样的规则判对错，不保存作答、进度和草稿，不用话筒、不向小兔提问，不调用 AI。Given 家长安排练习，Then 仅这个孩子可见，不影响同一家庭的其他孩子和其他家庭。Given 已保存当前草稿，When 返回，Then 恢复到最近一次成功保存的位置。Given 家长请求导出或删除，Then 通过服务端身份与家庭权限检查，仅处理本家庭的数据并说明操作结果。
+- 验收标准：Given 家长给孩子安排了书，When 孩子选择书里的任意一道题（包括做过的），Then 以做题模式打开，可以重做，不受强制顺序锁定。Given 孩子的首页，Then 新安排、孩子还没打开过其中任何一道题的书排在最前面，新安排的在前；其余没学完的书按最近学过（最近一次提交作答）从近到远，打开过但没作答过的排在这一组最后；然后是学完的书；暂时不可用的书置灰放在最后。Given 有孩子还没打开过的新书，Then 首页标出新书的本数，孩子打开这本书里的任意一道题后，这本书不再算新书。Given 没有安排给这个孩子的书，When 孩子从页面、链接或直接请求接口打开其中的题，Then 服务端拒绝，页面提示请家长安排这本书；同一家庭其他孩子和其他家庭安排的书同样打不开。Given 安排给孩子的书暂时不可用，Then 孩子看到置灰的书和「暂时不可用」，书里的题打不开。Given 没有登录（访客），When 打开首页或任何题目链接，Then 看不到题目内容，只有登录入口；孩子从题目链接登录后回到这道题。Given 登录的家长打开一道可用的书里的题，Then 以预览模式打开：可以看完整节课并点选作答，按做题模式同样的规则判对错，不保存作答、进度和草稿，不用话筒、不向小兔提问，不调用 AI。Given 家长安排练习，Then 仅这个孩子可见，不影响同一家庭的其他孩子和其他家庭。Given 已保存当前草稿，When 返回，Then 恢复到最近一次成功保存的位置。Given 家长请求导出或删除，Then 通过服务端身份与家庭权限检查，仅处理本家庭的数据并说明操作结果。
 - 数据规则：保留进度摘要，避免永久保留原始音频和绘图；临时草稿如包含绘图应明确期限及提交、放弃、注销后的清理行为。应用删除范围和服务商保留范围分别说明。
 - 架构阶段用户确认：草稿最后编辑后 7 天过期，提交或放弃时清除；进度摘要保留至家庭删除。待明确：备份保留；并发冲突显式处理，失败重试不重复累计。
 - #43 用户确认：导出为一个 JSON 文件，包含学习摘要、练习、尚未过期的草稿及其绘图笔迹、AI 授权和必要账户信息，不包含逐次作答的内部记录；文件写明包含和不包含的内容。见 [#43 验收记录](../evidence/43/README.md)。
